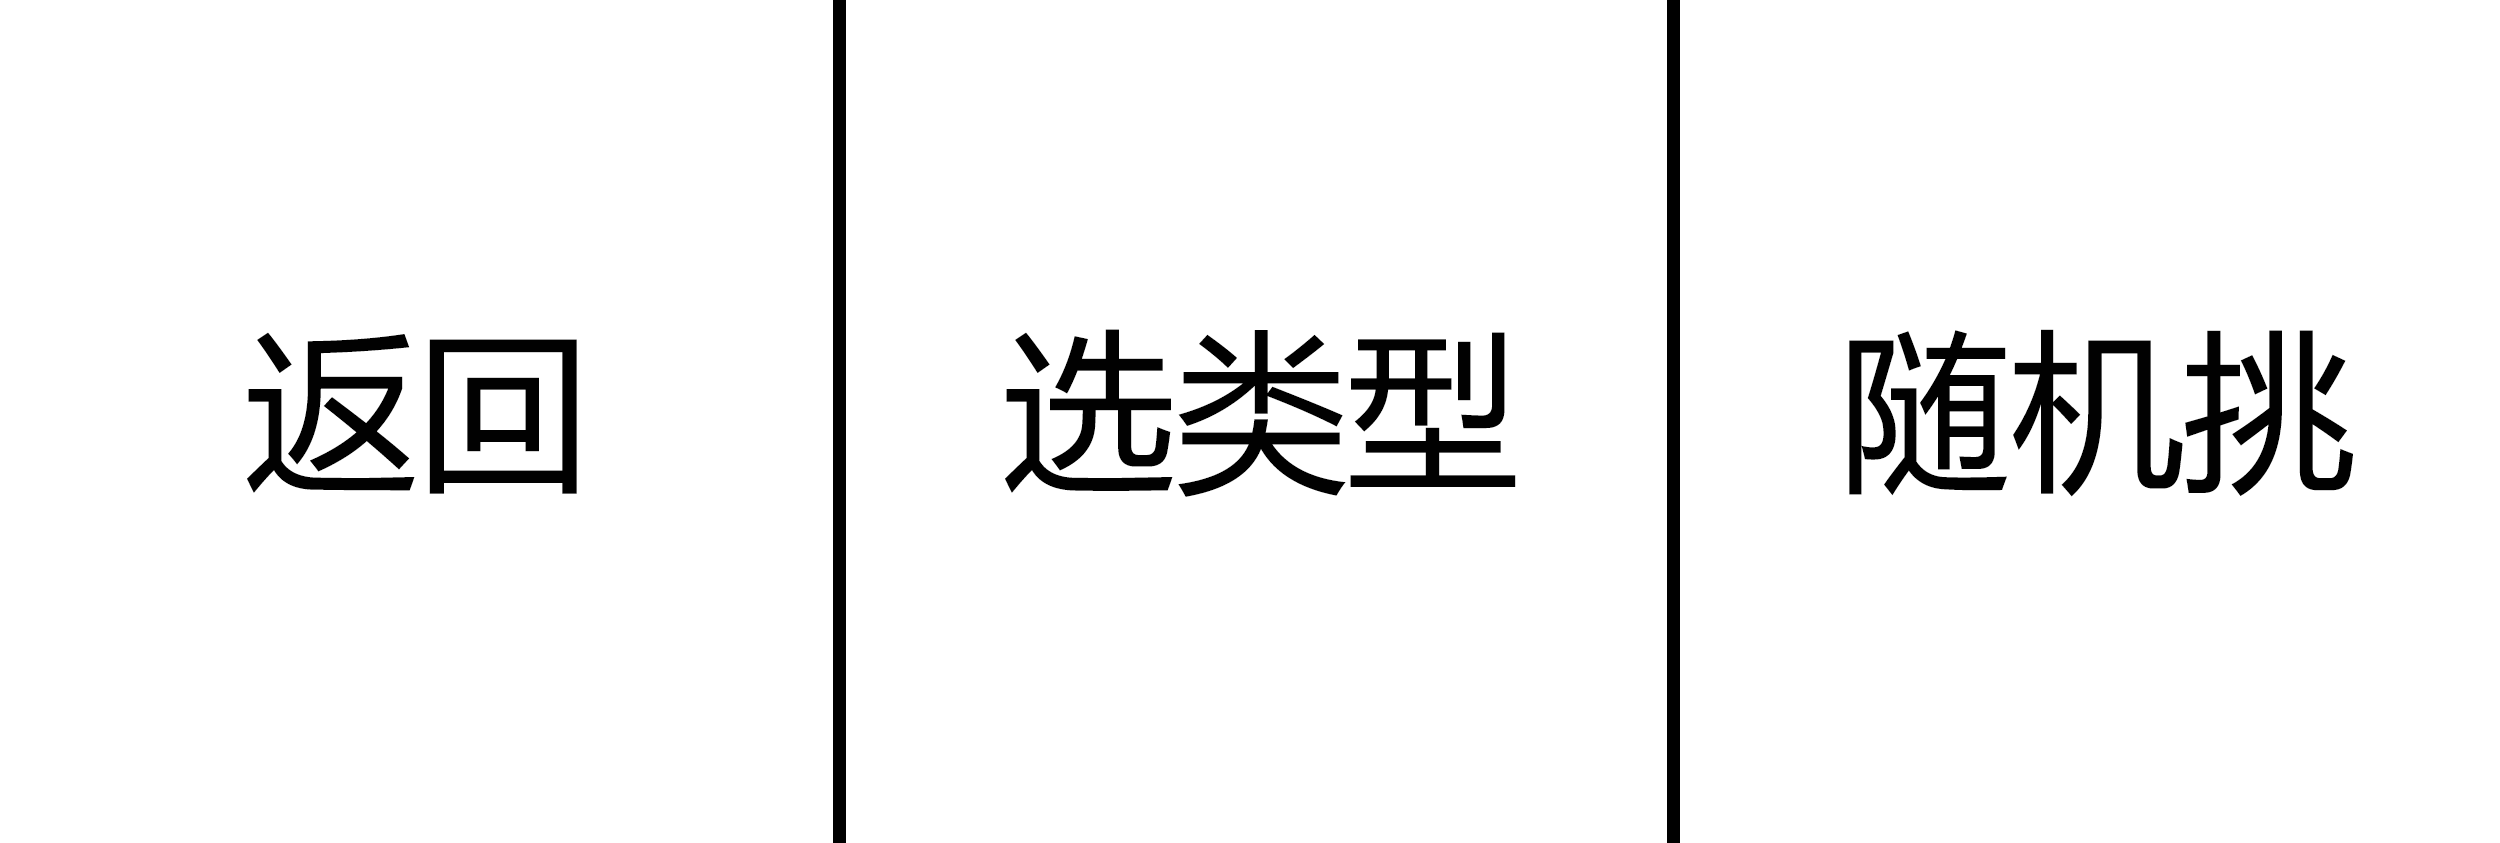
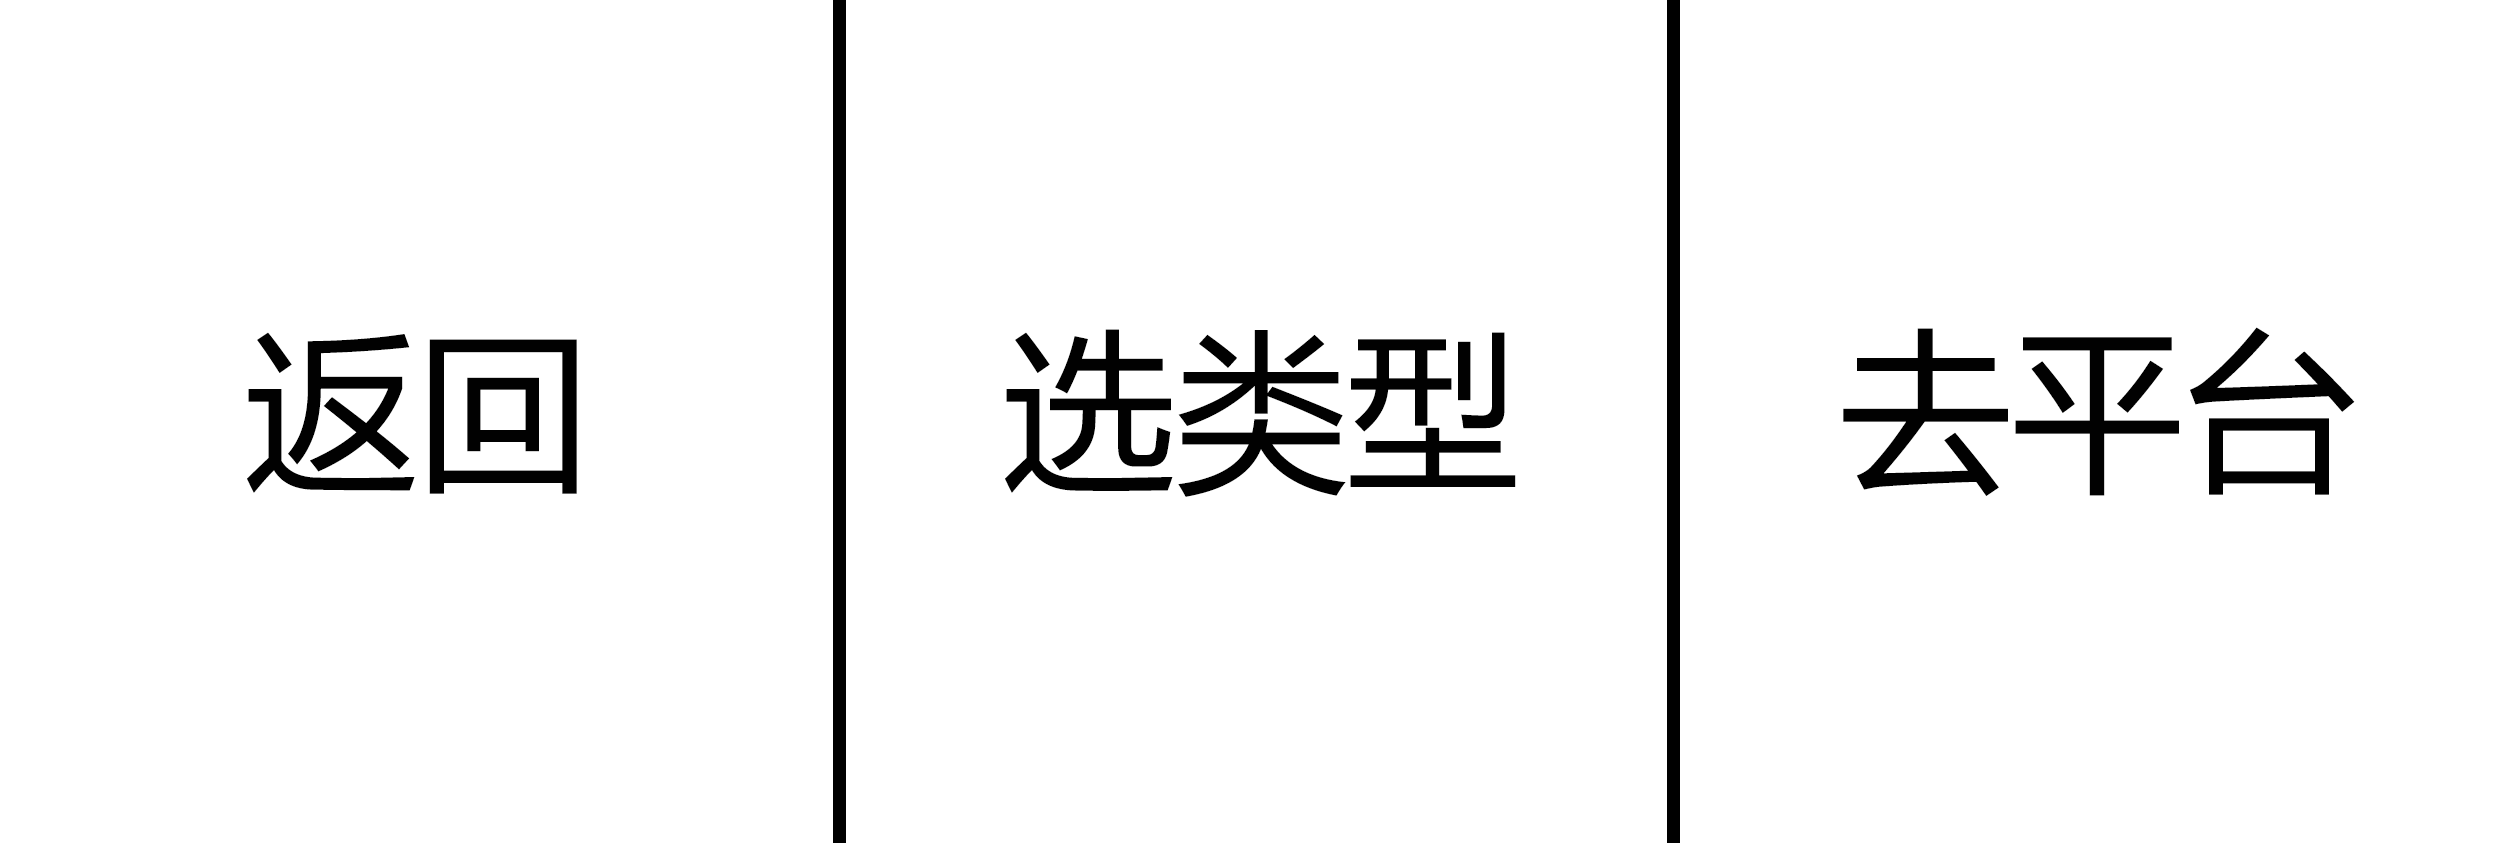
x

Changed region(s): [[0.7176, 0.3701, 0.9672, 0.586]]

diff --git a/index.js b/index.js
@@ -90,6 +90,9 @@ regReply("message", function (event) {
 regReply("message", function (event) {
     if (event.message.type == "text" && event.message.text == ("选类型")) {
         const echo = {
+            type: "flex",
+            altText: "选类型",
+            contents:{
             "type": "bubble",
             "body":{
               "type": "box",
@@ -128,7 +131,7 @@ regReply("message", function (event) {
                 }
               ],
               "flex": 0
-            }
+            }}
         }
         return client.replyMessage(event.replyToken, echo);
     }
@@ -160,6 +163,7 @@ regReply("message", function (event) {
     }
     return null;
 });
+
 
 regReply("message", function (event) {
     if (event.message.type == "text" && event.message.text.indexOf("几点") >= 0) {

diff --git a/Menu.js b/Menu.js
@@ -141,9 +141,9 @@ module.exports = class Menu{
                         height: 843
                     },
                     action: {
-                        type: "message",
-                        label: "随机挑",
-                        text: "随机挑"
+                        type: "uri",
+                        label: "去平台",
+                        uri: "line://app/1579130869-8AgDwr4m"
                     }
                 }
             ]
